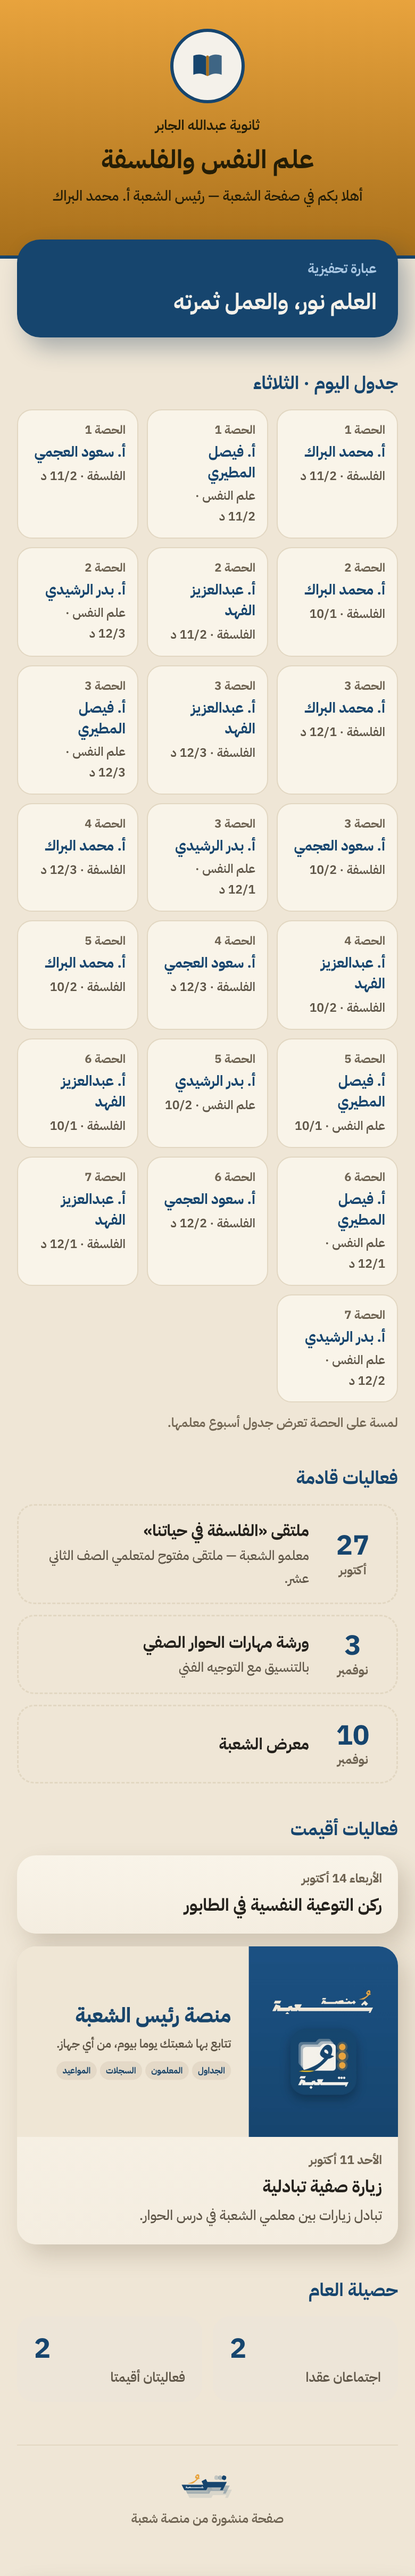
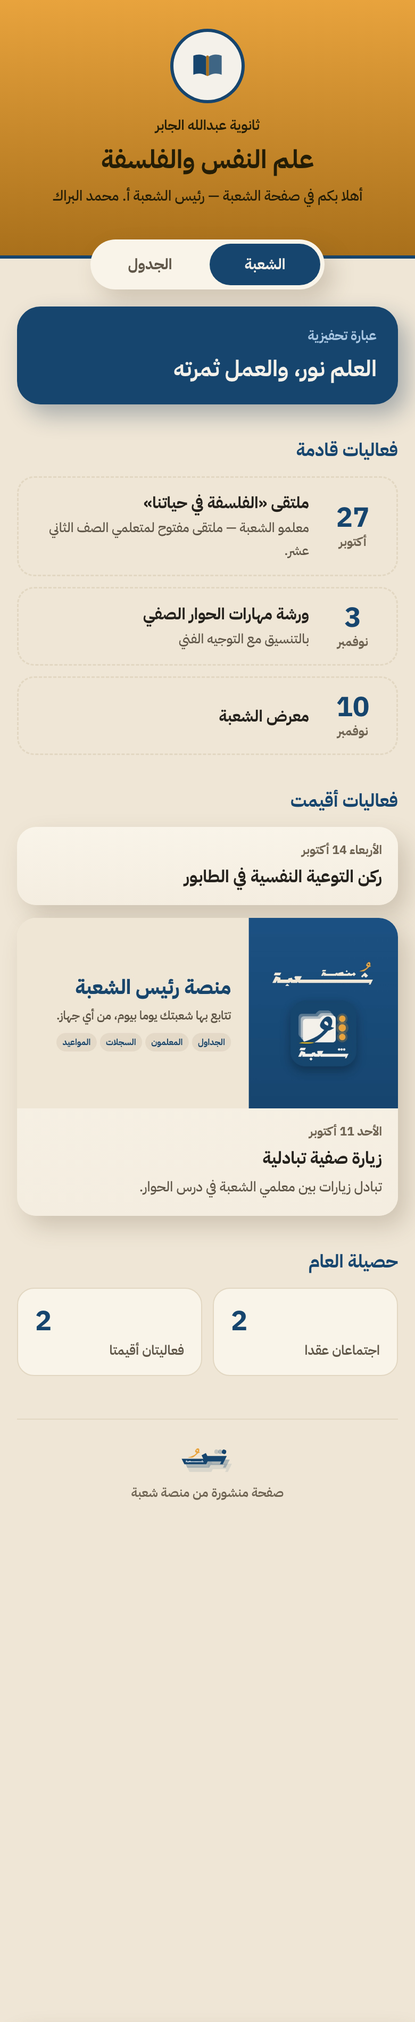
صفحة الزائر: تبويبا «الشعبة · الجدول» تحت الترويسة، و«الآن في الشعبة» بطاقات افقية بدل جدول اليوم، والجدول الكامل بمنتقي ايام في تبويبه

diff --git a/public/face.html b/public/face.html
@@ -13,9 +13,10 @@
 <link rel="stylesheet" href="face.css?v=94" />
 <!-- ===========================================================================
      واجهة الشعبة — صفحة الزائر (2026-10-20، الاتجاه المعتمد بعد «أنسب للعمل وليست للعرض»)
+     تبويبان تحت الترويسة (#الشعبة · #الجدول): الشعبة للآن والفعاليات والحصيلة، والجدول الكامل في تبويبه.
      صفحة عرض واحدة طويلة كموقع الشعبة، للعرض وحده بلا حساب: لا تبويبات ولا شريط ولا اطار جهاز،
      ولا قطع المنصة (shell · components · frame) — tokens.css وface.css وحدهما.
-     من اعلى: الترويسة · خانة الاسبوع · جدول اليوم · فعاليات قادمة · فعاليات اقيمت · حصيلة العام · التذييل.
+     الشعبة من اعلى: خانة الاسبوع · الآن في الشعبة · فعاليات قادمة · فعاليات اقيمت · حصيلة العام.
      وكل قسم فارغ يختفي بعنوانه. والحصة الجارية تحسب بساعة الزائر (face.js: المنشور بيانات لا صورة).
      ⚠ وعامل الخدمة يتركها (sw.js) فلا تقدم من مخزن جهاز نسخة قديمة.
      =========================================================================== -->
@@ -32,17 +33,24 @@
     </div>
   </header>
 
+  <nav class="fp ftabs" aria-label="أقسام الصفحة">
+    <div class="seg2">
+      <a href="#الشعبة" id="tabS" class="on">الشعبة</a>
+      <a href="#الجدول" id="tabJ">الجدول</a>
+    </div>
+  </nav>
+
   <main class="fp fmain">
+   <div class="fpane" id="paneS">
     <div class="fweek" id="week" hidden>
       <div class="k" id="wkKind"></div>
       <div class="t" id="wkTtl"></div>
       <div class="x" id="wkTxt" hidden></div>
     </div>
 
-    <section class="fsec" id="todaySec" hidden>
-      <h2 id="todayTtl">جدول اليوم</h2>
-      <div class="today" id="today"></div>
-      <p class="fnote">لمسة على الحصة تعرض جدول أسبوع معلمها.</p>
+    <section class="fsec" id="nowSec" hidden>
+      <h2>الآن في الشعبة<span class="when" id="nowWhen"></span></h2>
+      <div class="nowrow" id="nowRow"></div>
     </section>
 
     <section class="fsec" id="soonSec" hidden>
@@ -59,6 +67,16 @@
       <h2>حصيلة العام</h2>
       <div class="stats" id="stats"></div>
     </section>
+
+   </div>
+
+   <div class="fpane" id="paneJ" hidden>
+    <section class="fsec">
+      <div class="days" id="days"></div>
+      <div class="today" id="today"></div>
+      <p class="fnote" id="todayNote">لمسة على الحصة تعرض جدول أسبوع معلمها.</p>
+    </section>
+   </div>
 
     <footer class="ffoot">
       <img src="identity/assets/logo-vec-color.svg" alt="شعبة" />
@@ -134,28 +152,72 @@
     $('wkTxt').hidden = !(teacher && w.text);
   }
 
-  /* ③ جدول اليوم: خلية لكل حصة يعمل فيها معلم، بترتيب الحصص — وفي العطلة جدول الاحد */
+  /* ③ الآن في الشعبة: من في فصله في الحصة الجارية (بحد كحلي)، ثم من له الحصة القادمة — وفي الفرصة اسمها وما يليها.
+     وقبل الدوام وبعده وفي العطلة يختفي القسم بعنوانه */
+  var ORD = ['', 'الأولى', 'الثانية', 'الثالثة', 'الرابعة', 'الخامسة', 'السادسة', 'السابعة', 'الثامنة', 'التاسعة'];
   function periods() { return (SNAP.times || []).filter(function (t) { return !t.brk; }); }
-  function paintToday() {
-    var st = F.now(SNAP.times, SNAP.days, new Date()), days = SNAP.days || [];
-    var day = st.day || days[0], out = '';
+  function pIndex(n) { var ps = periods(); for (var i = 0; i < ps.length; i++) if (ps[i].n === n) return i; return -1; }
+  function cards(day, n, inClass) {
+    var i = pIndex(n), out = '';
+    if (i < 0) return '';
+    (SNAP.people || []).forEach(function (p, k) {
+      var v = ((p.wk || {})[day] || [])[i];
+      if (!v) return;
+      var s = F.slot(v);
+      out += '<button type="button" class="ncard' + (inClass ? ' in' : '') + '" data-k="' + k + '">'
+        + '<span class="p">' + (inClass ? 'في الفصل الآن' : 'الحصة القادمة') + '</span>'
+        + '<b>' + esc(title(p.name)) + '</b>'
+        + '<span class="m">' + [s.subject ? esc(s.subject) : '', clsHtml(s.cls)].filter(Boolean).join(' · ') + '</span></button>';
+    });
+    return out;
+  }
+  function paintNow() {
+    var st = F.now(SNAP.times, SNAP.days, new Date()), out = '', when = '';
+    if (st.state === 'period') {
+      var t = periods()[pIndex(st.n)];
+      when = 'الحصة ' + num(st.n) + (t ? ' · ' + num(t.from + '–' + t.to) : '');
+      out = cards(st.day, st.n, true) + (pIndex(st.n + 1) > -1 ? cards(st.day, st.n + 1, false) : '');
+    } else if ((st.state === 'break' || st.state === 'gap') && st.next) {
+      var nx = periods()[pIndex(st.next)];
+      when = (st.state === 'break' ? esc(st.label || 'الفرصة') + ' · ' : '') + 'تليها الحصة ' + esc(ORD[st.next] || st.next)
+        + (nx ? ' · ' + num(nx.from) : '');
+      out = cards(st.day, st.next, false);
+    }
+    $('nowWhen').innerHTML = when ? ' · ' + when : '';
+    $('nowRow').innerHTML = out;
+    $('nowSec').hidden = !out;
+  }
+
+  /* ④ تبويب الجدول: يوم يختاره الزائر (اليوم افتراضا، وفي العطلة الاحد)، والجارية كحلية في اليوم الحالي */
+  var curDay = null;
+  function paintDays() {
+    $('days').innerHTML = (SNAP.days || []).map(function (d) {
+      return '<button type="button" class="day' + (d === curDay ? ' on' : '') + '" data-d="' + esc(d) + '">' + esc(d) + '</button>';
+    }).join('');
+  }
+  function paintDay() {
+    var st = F.now(SNAP.times, SNAP.days, new Date()), out = '';
     periods().forEach(function (t, i) {
       (SNAP.people || []).forEach(function (p, k) {
-        var v = ((p.wk || {})[day] || [])[i];
+        var v = ((p.wk || {})[curDay] || [])[i];
         if (!v) return;
-        var s = F.slot(v), now = st.state === 'period' && st.day === day && st.n === t.n;
+        var s = F.slot(v), now = st.state === 'period' && st.day === curDay && st.n === t.n;
         out += '<button type="button" class="cell' + (now ? ' now' : '') + '" data-k="' + k + '">'
           + '<span class="p">' + (now ? 'الآن · ' : '') + 'الحصة ' + num(t.n) + '</span>'
           + '<b>' + esc(title(p.name)) + '</b>'
           + '<span class="m">' + [s.subject ? esc(s.subject) : '', clsHtml(s.cls)].filter(Boolean).join(' · ') + '</span></button>';
       });
     });
-    $('todayTtl').textContent = st.day ? 'جدول اليوم · ' + st.day : 'جدول يوم ' + day;
-    $('today').innerHTML = out;
-    $('todaySec').hidden = !out;
+    $('today').innerHTML = out || '';
+    $('today').hidden = !out;
+    $('todayNote').textContent = out ? 'لمسة على الحصة تعرض جدول أسبوع معلمها.' : 'لا حصص للشعبة في هذا اليوم.';
   }
-  $('today').addEventListener('click', function (e) {
-    var b = e.target.closest('.cell'); if (!b) return;
+  $('days').addEventListener('click', function (e) {
+    var b = e.target.closest('.day'); if (!b) return;
+    curDay = b.getAttribute('data-d'); paintDays(); paintDay();
+  });
+  function weekOf(e) {
+    var b = e.target.closest('[data-k]'); if (!b) return;
     var p = SNAP.people[+b.getAttribute('data-k')], ps = periods();
     if (!p) return;
     var g = '<div class="wk" style="--np:' + ps.length + '"><div class="h"></div>';
@@ -168,9 +230,11 @@
       });
     });
     openSheet(title(p.name) + (p.subj ? ' · ' + p.subj : ''), g + '</div>');
-  });
+  }
+  $('today').addEventListener('click', weekOf);
+  $('nowRow').addEventListener('click', weekOf);
 
-  /* ④ ⑤ الفعاليات — والتي مضى يومها بلا تأكيد لا تظهر (face-data.js) */
+  /* ⑤ ⑥ الفعاليات — والتي مضى يومها بلا تأكيد لا تظهر (face-data.js) */
   function paintEvents() {
     var v = F.visible(SNAP, today());
     $('soon').innerHTML = v.soon.map(function (e) {
@@ -202,7 +266,7 @@
     }).join('') + '</div>');
   });
 
-  /* ⑥ حصيلة العام — ما كان صفرا لا يظهر */
+  /* ⑦ حصيلة العام — ما كان صفرا لا يظهر */
   function paintStats(v) {
     var m = +((SNAP.stats || {}).meetings) || 0, e = v.done.length, out = '';
     function unit(n, f) { return n === 1 ? f[0] : n === 2 ? f[1] : (n >= 3 && n <= 10) ? f[2] : f[3]; }
@@ -211,13 +275,30 @@
     $('stats').innerHTML = out; $('statSec').hidden = !out;
   }
 
-  function paintAll() { paintWeek(); paintToday(); paintStats(paintEvents()); }
+  /* التبويبان برابط: #الشعبة (الافتراضي) · #الجدول — فيفتح كل منهما مباشرة، ويعمل رجوع المتصفح بينهما */
+  function route() {
+    var h = '';
+    try { h = decodeURIComponent(location.hash.slice(1)); } catch (e) {}
+    var j = h === 'الجدول';
+    $('paneS').hidden = j; $('paneJ').hidden = !j;
+    $('tabS').classList.toggle('on', !j); $('tabJ').classList.toggle('on', j);
+    $('tabS').setAttribute('aria-current', j ? 'false' : 'page'); $('tabJ').setAttribute('aria-current', j ? 'page' : 'false');
+  }
+  window.addEventListener('hashchange', route);
+  /* ⚠ <base href="../"> يجعل «#الجدول» رابطا الى جذر المنصة — فيكتب الرابط كاملا بمسار الصفحة نفسها */
+  [['tabS', 'الشعبة'], ['tabJ', 'الجدول']].forEach(function (x) {
+    $(x[0]).setAttribute('href', location.pathname + location.search + '#' + encodeURIComponent(x[1]));
+  });
+
+  function paintAll() { paintWeek(); paintNow(); paintDay(); paintStats(paintEvents()); }
   function start(snap) {
     SNAP = snap || {};
-    paintHead(); paintAll();
+    var g = new Date().getDay(), days = SNAP.days || [];
+    curDay = days[g <= 4 ? g : 0] || days[0];
+    paintHead(); paintDays(); paintAll(); route();
     $('page').hidden = false;
     /* الحصة الجارية تتبدل وهو ينظر — والخانة والفعاليات بتبدل اليوم */
-    setInterval(paintToday, 30000);
+    setInterval(function () { paintNow(); paintDay(); }, 30000);
     document.addEventListener('visibilitychange', function () { if (!document.hidden) paintAll(); });
   }
   function gone() { $('gone').hidden = false; }

diff --git a/public/face.css b/public/face.css
@@ -34,8 +34,37 @@
 .fhead h1{margin:0;font-size:24px;font-weight:700;line-height:1.4}
 .fhead .hi{font-size:13.5px;font-weight:500;line-height:1.7}
 
-/* ② بطاقة الاسبوع — الكتلة الكحلية الواحدة، تتداخل مع الترويسة */
-.fweek{margin-top:-18px;position:relative;background:var(--shouba-navy);color:var(--shouba-cream);border-radius:22px;
+/* التبويبان «الشعبة · الجدول» (قرار المستخدم 2026-10-20: «الجدول بتبويب خاص») — مفتاح مقسوم يتداخل مع حافة الترويسة،
+   والمفعل كحلي بنص كريمي. وكل تبويب برابط (#الشعبة · #الجدول) فيفتح مباشرة */
+.ftabs{display:flex;justify-content:center;margin-top:-18px;position:relative}
+.ftabs .seg2{display:flex;gap:4px;padding:4px;border-radius:999px;background:var(--shouba-paper);box-shadow:var(--shadow-card)}
+.ftabs a{min-width:104px;text-align:center;text-decoration:none;font-size:14px;font-weight:700;border-radius:999px;padding:9px 18px;
+  color:var(--shouba-text-muted)}
+.ftabs a.on{background:var(--shouba-navy);color:var(--shouba-cream)}
+.fpane[hidden]{display:none}
+
+/* الآن في الشعبة: بطاقات افقية تمرر داخل صفها (لا الصفحة) — من في فصله الآن بحد كحلي، ثم الحصة القادمة بلا حد */
+.fsec > h2 .when{font-size:13px;font-weight:600;color:var(--shouba-label);margin-inline-start:6px}
+.nowrow{display:flex;gap:10px;overflow-x:auto;scrollbar-width:none;padding:2px 2px 6px;margin:0 -2px;-webkit-overflow-scrolling:touch}
+.nowrow::-webkit-scrollbar{display:none}
+.ncard{flex:none;width:150px;border-radius:16px;background:var(--shouba-paper);border:2px solid transparent;padding:11px 12px;
+  display:flex;flex-direction:column;gap:3px;text-align:right;font-family:var(--font-ar);cursor:pointer;color:var(--shouba-ink)}
+.ncard.in{border-color:var(--shouba-navy)}
+.ncard .p{font-size:11px;font-weight:700;color:var(--shouba-label)}
+.ncard.in .p{color:var(--shouba-navy)}
+.ncard .cl{white-space:nowrap}
+.ncard b{font-size:13.5px;font-weight:700;color:var(--shouba-navy);line-height:1.45}
+.ncard .m{font-size:11.5px;font-weight:600;color:var(--shouba-text-muted);line-height:1.6}
+
+/* منتقي الايام في تبويب الجدول */
+.days{display:flex;gap:6px;overflow-x:auto;scrollbar-width:none;margin-bottom:14px}
+.days::-webkit-scrollbar{display:none}
+.day{flex:none;border:0;cursor:pointer;font-family:var(--font-ar);font-size:13px;font-weight:700;border-radius:999px;padding:8px 16px;
+  color:var(--shouba-text-muted);background:var(--shouba-sand)}
+.day.on{background:var(--shouba-navy);color:var(--shouba-cream)}
+
+/* ② بطاقة الاسبوع — الكتلة الكحلية الواحدة */
+.fweek{margin-top:16px;position:relative;background:var(--shouba-navy);color:var(--shouba-cream);border-radius:22px;
   box-shadow:var(--shadow-navy);padding:18px 20px;display:flex;flex-direction:column;gap:6px}
 .fweek .k{font-size:12.5px;font-weight:700;color:var(--shouba-navy-light)}
 .fweek .t{font-size:21px;font-weight:700;line-height:1.5}
